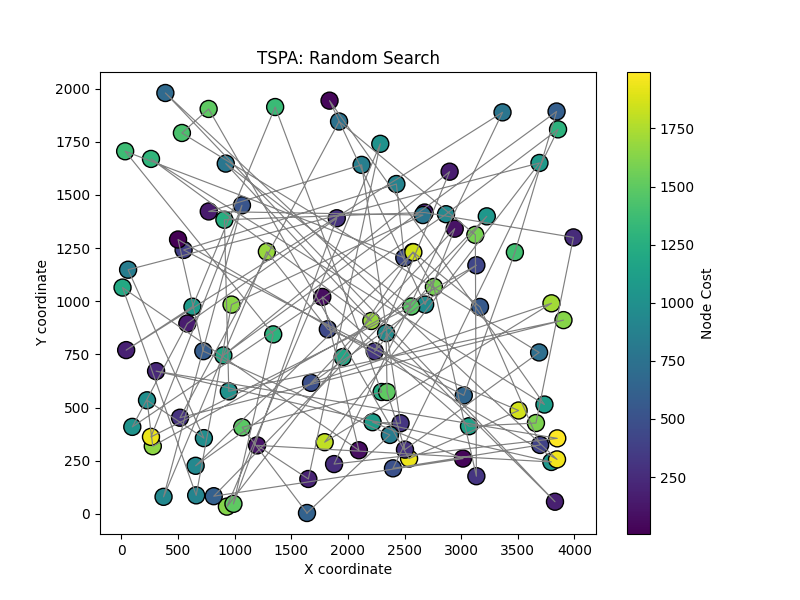
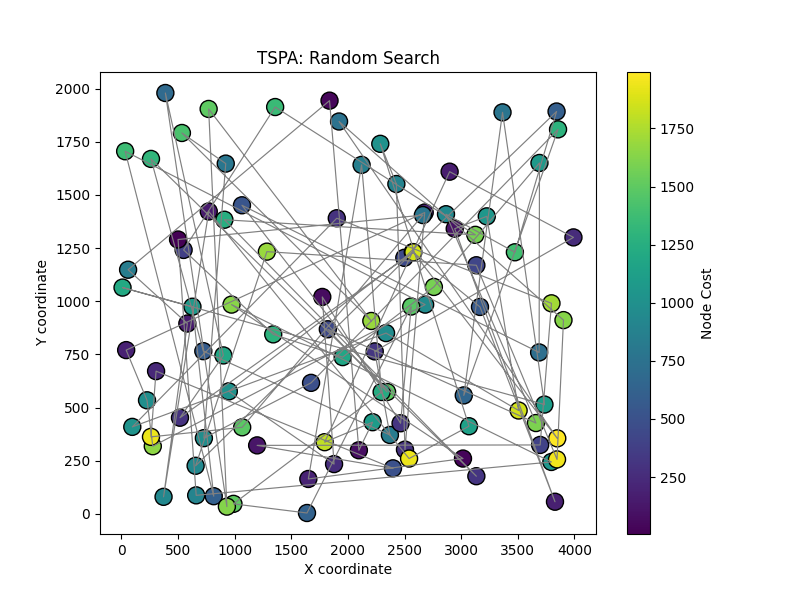
Run experiment once more

Changed region(s): [[0.1562, 0.15, 0.7188, 0.87], [0.6875, 0.39, 0.7188, 0.42], [0.5312, 0.24, 0.5625, 0.27]]

diff --git a/visualization/analyze.py b/visualization/analyze.py
@@ -48,6 +48,6 @@ def plot_and_save_individual(paths, tsp_type):
         print(f"Saved plot: {tsp_type+filename}")
 
 if __name__ == "__main__":
-    tsp_type = "TSPA"
+    tsp_type = "TSPB"
     paths = read_paths_with_cost("visualization/" + tsp_type+"_paths.csv")
     plot_and_save_individual(paths, tsp_type)
